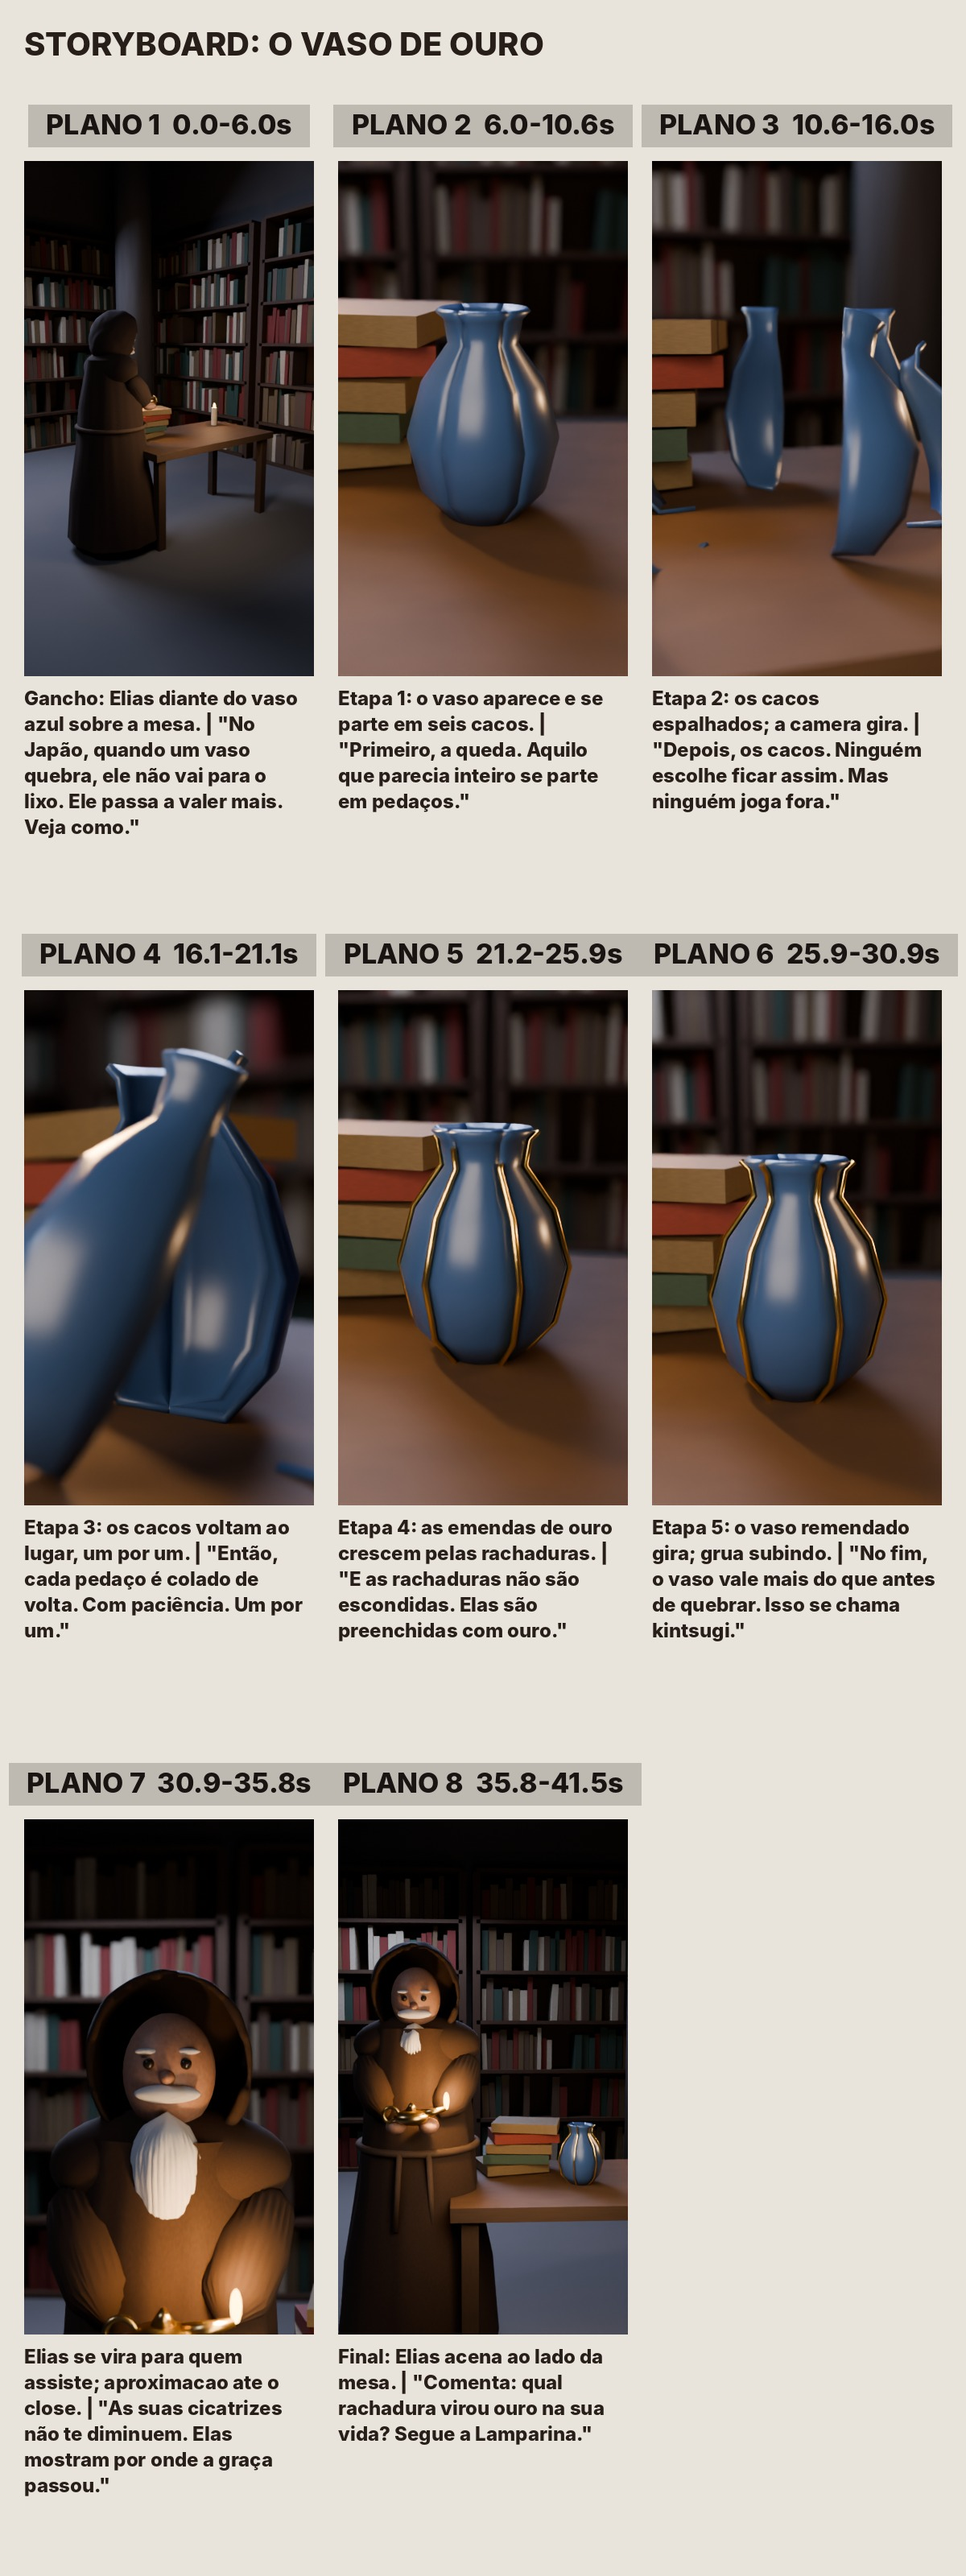
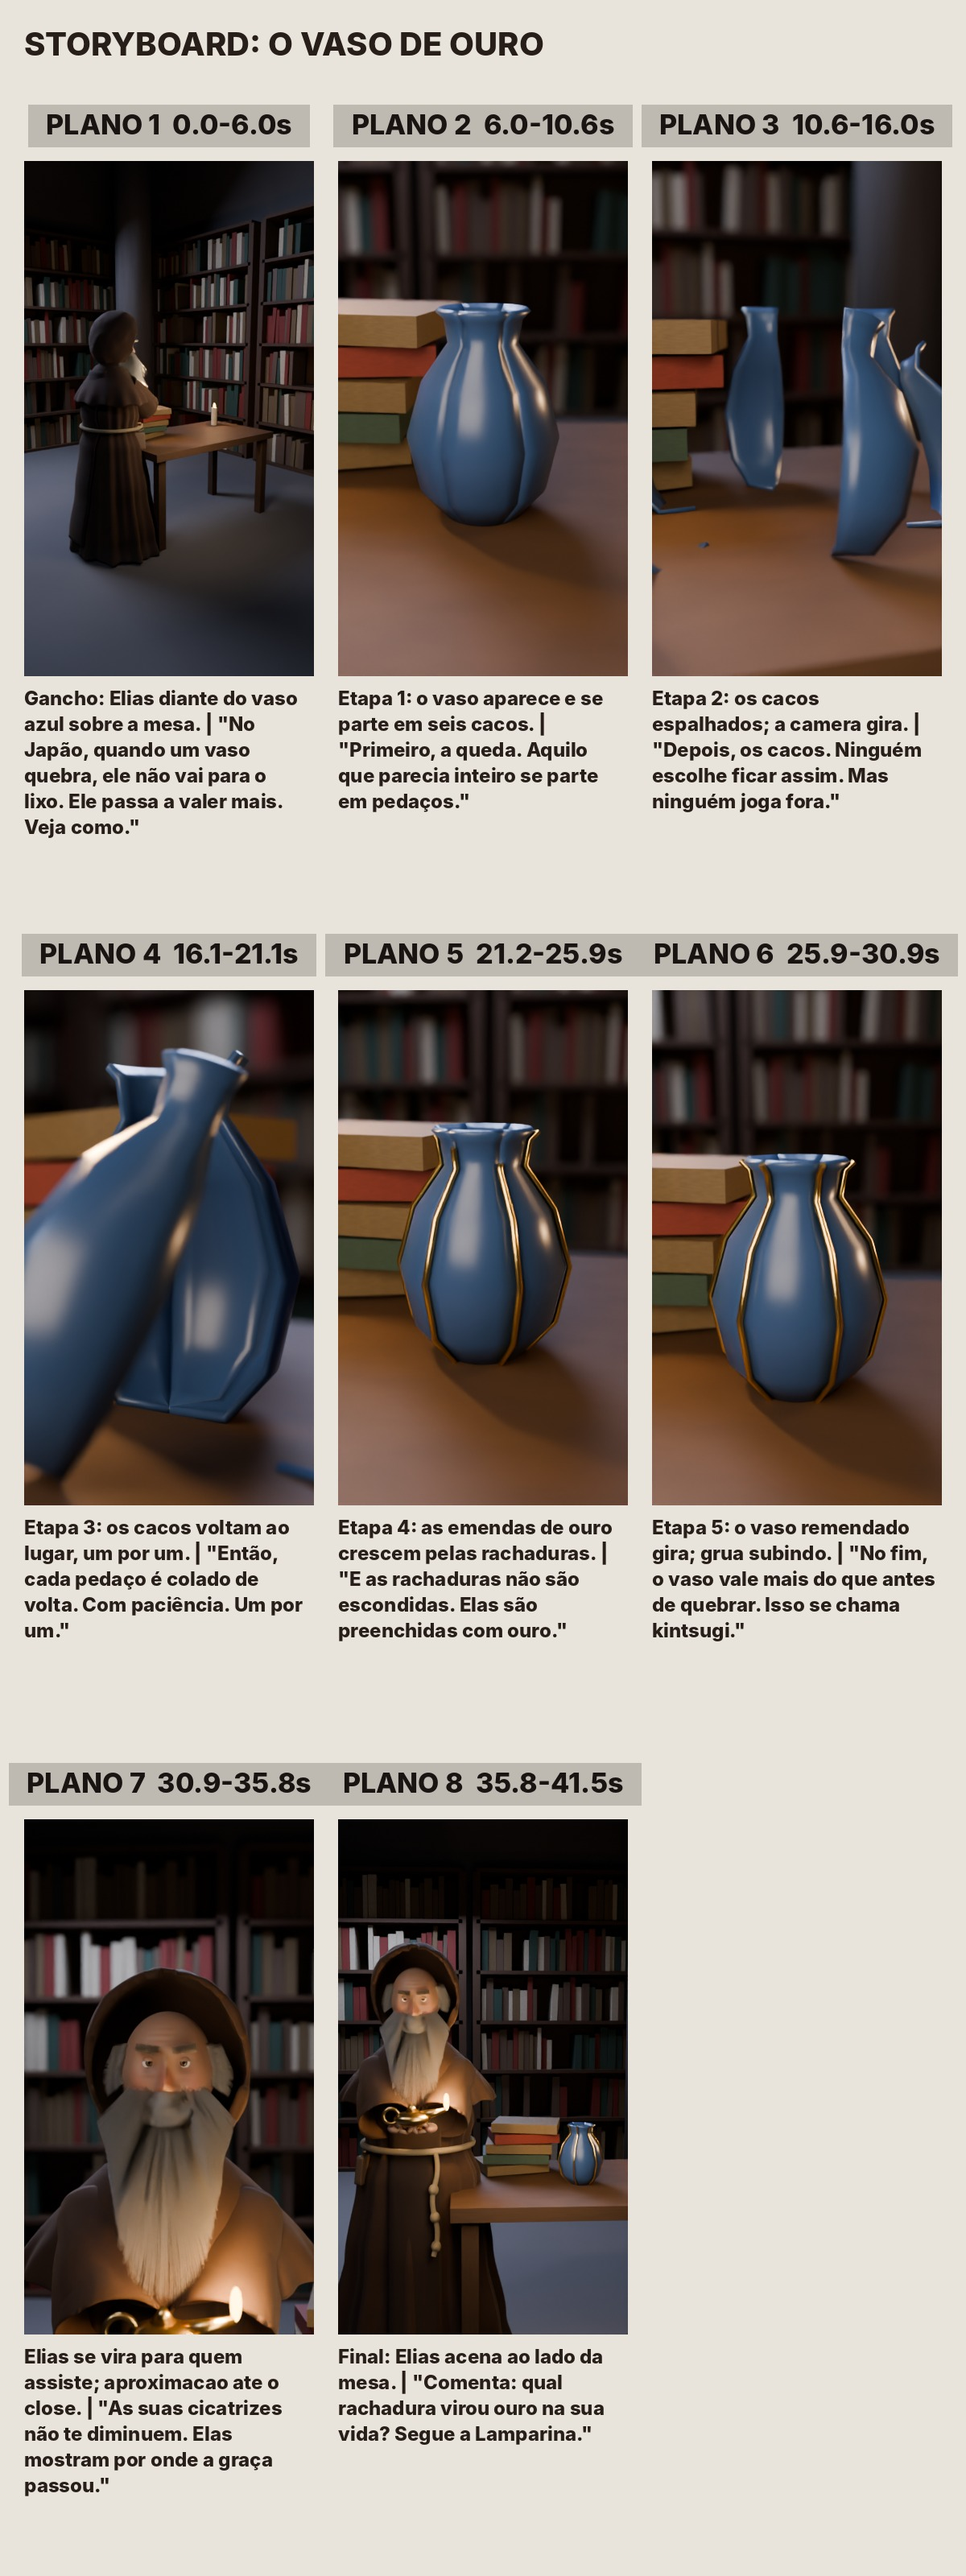
Elias V2: fala sincronizada com a narracao, piscar, sobrancelhas moveis, olhar para a camera, rugas esculpidas, cabelo nas temporas e respiracao
Claude-Session: https://claude.ai/code/session_0146Xd1ZsDWpGpSHV77qDDph

diff --git a/animacao3d/personagem.py b/animacao3d/personagem.py
@@ -103,6 +103,20 @@ def _forma_rosto(p):
         d += 0.07 * _g(p, (0.15 * s, -0.95, -0.27), 0.065)    # asas do nariz
         d += 0.12 * _g(p, (1.0 * s, 0.05, 0.0), (0.05, 0.12, 0.16))  # orelhas
     d -= 0.035 * _g(p, (0, -0.95, -0.48), (0.22, 0.2, 0.05))  # boca
+    # Rugas: tres sulcos na testa, pes de galinha, bolsas sob os olhos e o bigode chines.
+    frente = _suave(-0.55, -0.85, p.y)
+    for zc in (0.5, 0.6, 0.7):
+        d -= 0.012 * frente * math.exp(-((p.z - zc) / 0.028) ** 2) * math.exp(-(p.x / 0.45) ** 2)
+    for s in (1, -1):
+        for k in (-1, 0, 1):
+            d -= 0.008 * _g(p, (0.63 * s, -0.66, 0.14 + 0.06 * k), (0.07, 0.07, 0.013))
+        d += 0.02 * _g(p, (0.36 * s, -0.88, -0.04), (0.1, 0.1, 0.035))
+        d -= 0.012 * _g(p, (0.36 * s, -0.86, -0.1), (0.12, 0.1, 0.02))
+        a_, b_ = Vector((0.17 * s, -0.93, -0.27)), Vector((0.3 * s, -0.86, -0.58))
+        t = max(0.0, min(1.0, (p - a_).dot(b_ - a_) / (b_ - a_).length_squared))
+        dist = (p - (a_ + (b_ - a_) * t)).length
+        d -= 0.025 * math.exp(-(dist / 0.03) ** 2)
+        d += 0.012 * math.exp(-((dist - 0.05) / 0.03) ** 2)
     d += 0.05 * _g(p, (0, -0.85, -0.8), 0.15)                 # queixo
     q = p + n * d
     # Nariz: crista no meio do rosto, mais alta na ponta.
@@ -116,7 +130,27 @@ def _forma_rosto(p):
     return q
 
 
-def _pele_material(nome, com_cor):
+PARTES_ROSTO = {}
+
+
+def _sup(pu):
+    """Ponto da superficie do rosto (unidades da cena) a partir de um ponto da esfera unitaria."""
+    q = _forma_rosto(pu.normalized())
+    return Vector((q.x * ESCALA_CABECA.x, q.y * ESCALA_CABECA.y, q.z * ESCALA_CABECA.z)) + CENTRO_CABECA
+
+
+def _boca_material():
+    m = bpy.data.materials.get("boca")
+    if m is None:
+        m = bpy.data.materials.new("boca")
+        m.use_nodes = True
+        p = m.node_tree.nodes["Principled BSDF"]
+        p.inputs["Base Color"].default_value = (0.05, 0.012, 0.01, 1)
+        p.inputs["Roughness"].default_value = 0.6
+    return m
+
+
+def _pele_material(nome, com_cor, cor=None):
     """Pele: subsurface, poros e rugas finas na testa; cor por vertice (bochechas e nariz mais rosados)."""
     m = bpy.data.materials.get(nome)
     if m:
@@ -125,7 +159,7 @@ def _pele_material(nome, com_cor):
     m.use_nodes = True
     nt = m.node_tree
     p = nt.nodes["Principled BSDF"]
-    p.inputs["Base Color"].default_value = (0.42, 0.25, 0.17, 1)
+    p.inputs["Base Color"].default_value = (*(cor or (0.42, 0.25, 0.17)), 1)
     if com_cor:
         ca = nt.nodes.new("ShaderNodeVertexColor")
         ca.layer_name = "cor_pele"
@@ -262,7 +296,7 @@ def _fios(o, nome, grupo, quantos, comprimento, direcao, normal, filhos=10, aglo
 
 def cabeca_realista(colecao, m):
     """Devolve as pecas da cabeca V2 (todas para serem filhas do vazio da cabeca)."""
-    bpy.ops.mesh.primitive_uv_sphere_add(segments=96, ring_count=48, radius=1, location=(0, 0, 0))
+    bpy.ops.mesh.primitive_uv_sphere_add(segments=192, ring_count=96, radius=1, location=(0, 0, 0))
     rosto = _obj("rosto", None, colecao)
     me = rosto.data
     cores = me.color_attributes.new("cor_pele", "FLOAT_COLOR", "POINT")
@@ -270,6 +304,7 @@ def cabeca_realista(colecao, m):
     bigode_g = rosto.vertex_groups.new(name="bigode")
     sob_g = rosto.vertex_groups.new(name="sobrancelha")
     comp_g = rosto.vertex_groups.new(name="comprimento")
+    cab_g = rosto.vertex_groups.new(name="cabelo")
     for v in me.vertices:
         p = v.co.copy()
         q = _forma_rosto(p)
@@ -286,35 +321,68 @@ def cabeca_realista(colecao, m):
             comp_g.add([v.index], 0.3 + 0.7 * (1 - abs(p.x) / 0.8) ** 1.5, "REPLACE")
         if p.y < -0.7 and -0.46 < p.z < -0.3 and abs(p.x) < 0.42:
             bigode_g.add([v.index], 1.0, "REPLACE")
-        for s in (1, -1):
-            if _g(p, (0.36 * s, -0.86, 0.33), (0.17, 0.3, 0.05)) > 0.5:
-                sob_g.add([v.index], 1.0, "REPLACE")
+        if -0.2 < p.z < 0.45 and abs(p.x) > 0.72 and p.y > -0.35:
+            cab_g.add([v.index], 1.0, "REPLACE")
     rosto.location = CENTRO_CABECA
     me.materials.append(_pele_material("pele_rosto", True))
     me.materials.append(_cabelo_material())
     sub = rosto.modifiers.new("sub", "SUBSURF")
     sub.levels, sub.render_levels = 0, 1
     _fios(rosto, "barba", "barba", 2200, 0.26, (0, -0.15, -1.0), 0.1, 10, 0.6, "comprimento")
-    _fios(rosto, "bigode", "bigode", 500, 0.075, (0, -0.4, -1.0), 0.6, 8, 0.6)
-    _fios(rosto, "sobrancelha", "sobrancelha", 260, 0.022, (0, -0.6, 0.35), 0.4, 6, 0.3)
+    _fios(rosto, "bigode", "bigode", 600, 0.05, (0, -0.3, -1.0), 0.45, 8, 0.25)
+    _fios(rosto, "cabelo", "cabelo", 700, 0.035, (0, 0.4, -1.0), 0.12, 6, 0.3)
     pecas = [rosto]
+    partes = {"sobrancelhas": [], "palpebras": [], "olhos": []}
+    # Sobrancelhas em tiras proprias (invisiveis) para poderem subir e descer.
+    for s in (1, -1):
+        c = _sup(Vector((0.36 * s, -0.86, 0.33)))
+        # Tira no plano xz com a normal para a frente (-y): os fios nascem para fora do rosto.
+        bm = bmesh.new()
+        vs = [bm.verts.new(v) for v in ((-0.025, 0, -0.007), (0.025, 0, -0.007), (0.025, 0, 0.007), (-0.025, 0, 0.007))]
+        bm.faces.new(vs)
+        me_s = bpy.data.meshes.new("sobrancelha")
+        bm.to_mesh(me_s)
+        bm.free()
+        so = bpy.data.objects.new("sobrancelha", me_s)
+        colecao.objects.link(so)
+        me_s.materials.append(_cabelo_material())
+        so.location = (c.x, c.y + 0.002, c.z)
+        so.rotation_euler = (0, math.radians(-8 * s), 0)
+        so.show_instancer_for_render = False
+        so.visible_camera = True
+        _fios(so, "sobrancelha", "", 140, 0.022, (0, -0.6, 0.35), 0.4, 6, 0.3)
+        pecas.append(so)
+        partes["sobrancelhas"].append(so)
+    # Boca: abertura escura e labio inferior, que se movem com a fala.
+    cb = _sup(Vector((0, -0.95, -0.5)))
+    bpy.ops.mesh.primitive_uv_sphere_add(radius=1, location=(cb.x, cb.y + 0.004, cb.z))
+    boca = _obj("boca", _boca_material(), colecao)
+    boca.scale = (0.022, 0.008, 0.004)
+    bpy.ops.mesh.primitive_uv_sphere_add(radius=1, location=(cb.x, cb.y + 0.001, cb.z - 0.008))
+    labio = _obj("labio", _pele_material("labio", False, (0.42, 0.17, 0.14)), colecao)
+    labio.scale = (0.024, 0.01, 0.007)
+    pecas += [boca, labio]
+    partes["boca"], partes["labio"] = boca, labio
     # Volume interno da barba (evita ver atraves dos fios).
-    bpy.ops.mesh.primitive_cone_add(vertices=40, radius1=0.025, radius2=0.085, depth=0.3,
-                                    location=(0, -0.12, 1.43), rotation=(0.14, 0, 0))
+    bpy.ops.mesh.primitive_cone_add(vertices=40, radius1=0.025, radius2=0.07, depth=0.28,
+                                    location=(0, -0.11, 1.39), rotation=(0.14, 0, 0))
     miolo = _obj("barba_miolo", m["barba"], colecao)
     miolo.scale = (1.0, 0.7, 1.0)
     pecas.append(miolo)
     # Olhos e palpebras.
     olho_m = _olho_material()
-    pele_l = _pele_material("pele_lisa", False)
+    pele_l = _pele_material("palpebra", False)
+    pele_l.node_tree.nodes["Principled BSDF"].inputs["Subsurface Weight"].default_value = 0.0
     for s in (1, -1):
         alvo = _forma_rosto(Vector((0.36 * s, -0.86, 0.14)).normalized())
         c = Vector((alvo.x * ESCALA_CABECA.x, alvo.y * ESCALA_CABECA.y, alvo.z * ESCALA_CABECA.z)) + CENTRO_CABECA
         c.y += 0.009
         bpy.ops.mesh.primitive_uv_sphere_add(segments=32, ring_count=16, radius=0.016, location=c)
-        pecas.append(_obj("olho", olho_m, colecao))
+        olho = _obj("olho", olho_m, colecao)
+        pecas.append(olho)
+        partes["olhos"].append(olho)
         for nome, corte, inclina in (("palpebra_sup", 0.78, -0.25), ("palpebra_inf", -0.78, 0.2)):
-            bpy.ops.mesh.primitive_uv_sphere_add(segments=32, ring_count=16, radius=0.0172, location=c)
+            bpy.ops.mesh.primitive_uv_sphere_add(segments=32, ring_count=16, radius=0.0176, location=c)
             pal = _obj(nome, pele_l, colecao)
             bm = bmesh.new()
             bm.from_mesh(pal.data)
@@ -326,6 +394,10 @@ def cabeca_realista(colecao, m):
             bm.to_mesh(pal.data)
             bm.free()
             pecas.append(pal)
+            if corte > 0:
+                partes["palpebras"].append(pal)
+    PARTES_ROSTO.clear()
+    PARTES_ROSTO.update(partes)
     return pecas
 
 
@@ -732,7 +804,11 @@ def criar(colecao, mats, local=(0, 0, 0), realista=True):
     _pai(luz, bracos)
 
     raiz.location = local
-    return {"raiz": raiz, "cabeca": cab, "bracos": bracos, "luz": luz, "chama": chama}
+    partes = {"raiz": raiz, "cabeca": cab, "bracos": bracos, "luz": luz, "chama": chama}
+    if realista:
+        partes.update(PARTES_ROSTO)
+        partes["murca"] = bpy.data.objects.get("murca")
+    return partes
 
 
 def tremular(partes, inicio, fim, semente=7):
@@ -745,3 +821,102 @@ def tremular(partes, inicio, fim, semente=7):
         luz.data.keyframe_insert("energy", frame=f)
         chama.scale = (0.011, 0.011, 0.03 * (0.85 + 0.3 * k))
         chama.keyframe_insert("scale", frame=f)
+
+
+# ---------------------------------------------------------------------------
+# Vida (V2): boca sincronizada com a narracao, piscar, sobrancelhas, olhar e respiracao.
+# ---------------------------------------------------------------------------
+def _envelope(wav, fps):
+    """Volume da narracao por quadro, de 0 a 1 (RMS suavizado)."""
+    import subprocess
+    import array
+    bruto = subprocess.run(["ffmpeg", "-v", "error", "-i", str(wav), "-ac", "1", "-ar", "8000", "-f", "s16le", "-"],
+                           capture_output=True, check=True).stdout
+    a = array.array("h", bruto)
+    n = 8000 // fps
+    rms = [(sum(x * x for x in a[i:i + n]) / n) ** 0.5 for i in range(0, len(a) - n, n)]
+    topo = sorted(rms)[int(len(rms) * 0.92)] or 1
+    sua, v = [], 0.0
+    for x in rms:
+        v = 0.5 * v + 0.5 * min(x / topo, 1.0)
+        sua.append(v)
+    return sua
+
+
+def _camera_no_quadro(cena, f):
+    marcas = sorted((m for m in cena.timeline_markers if m.camera), key=lambda m: m.frame)
+    cam = cena.camera
+    for m in marcas:
+        if m.frame <= f:
+            cam = m.camera
+    return cam
+
+
+def vida(partes, cena, wav, tempos, fim, fps=24, semente=3):
+    if "boca" not in partes:
+        return
+    rnd = random.Random(semente)
+    # 1. Fala: a boca abre com o volume da voz (quadros pares, que sao os renderizados).
+    env = _envelope(wav, fps)
+    boca, labio = partes["boca"], partes["labio"]
+    b0, l0 = tuple(boca.location), tuple(labio.location)
+    for f in range(0, min(fim, len(env)) + 1, 2):
+        a = env[f] if env[f] > 0.12 else 0.0
+        boca.scale = (0.022, 0.008, 0.004 + 0.011 * a)
+        boca.location = (b0[0], b0[1], b0[2] - 0.004 * a)
+        labio.location = (l0[0], l0[1], l0[2] - 0.01 * a)
+        boca.keyframe_insert("scale", frame=f)
+        boca.keyframe_insert("location", frame=f)
+        labio.keyframe_insert("location", frame=f)
+    # 1. Piscar a cada 2,5 a 5 s.
+    f = 30
+    while f < fim - 8:
+        f -= f % 2
+        for pal in partes["palpebras"]:
+            for df, ang in ((0, 0), (2, 72), (4, 40), (6, 0)):
+                pal.rotation_euler = (math.radians(ang), 0, 0)
+                pal.keyframe_insert("rotation_euler", frame=f + df)
+        f += int(rnd.uniform(2.5, 5) * fps)
+    # 1. Sobrancelhas sobem no comeco de uma frase sim, outra nao.
+    for so in partes["sobrancelhas"]:
+        z0 = so.location.z
+        so.keyframe_insert("location", frame=0)
+        for i, t in enumerate(tempos):
+            if i % 2:
+                continue
+            q = int(t[0] * fps)
+            for df, dz in ((0, 0), (5, 0.004), (16, 0.004), (24, 0)):
+                so.location.z = z0 + dz
+                so.keyframe_insert("location", frame=q + df)
+    # 2. Olhar: os olhos procuram a camera ativa, com pequenos desvios (sacadas).
+    alvo = bpy.data.objects.new("alvo_olhar", None)
+    cena.collection.objects.link(alvo)
+    for olho in partes["olhos"]:
+        c = olho.constraints.new("DAMPED_TRACK")
+        c.target = alvo
+        c.track_axis = "TRACK_NEGATIVE_Y"
+        c.influence = 0.6
+    desvio = Vector()
+    for f in range(0, fim + 1, 6):
+        if f % 36 == 0:
+            desvio = Vector((rnd.uniform(-0.06, 0.06), 0, rnd.uniform(-0.04, 0.04)))
+        cam = _camera_no_quadro(cena, f)
+        if cam is None:
+            continue
+        cena.frame_set(f)
+        alvo.location = cam.matrix_world.translation + desvio
+        alvo.keyframe_insert("location", frame=f)
+    cena.frame_set(0)
+    # 6. Respiracao: ombros e cabeca sobem e descem (ciclo de 4 s), murca enche um pouco.
+    cab, bracos, murca = partes["cabeca"], partes["bracos"], partes.get("murca")
+    c0, br0 = tuple(cab.location), tuple(bracos.location)
+    for f in range(0, fim + 1, 12):
+        k = math.sin(2 * math.pi * f / (4 * fps))
+        lado = math.sin(2 * math.pi * f / (7 * fps))
+        cab.location = (c0[0] + 0.003 * lado, c0[1], c0[2] + 0.004 * k)
+        bracos.location = (br0[0], br0[1], br0[2] + 0.005 * k)
+        cab.keyframe_insert("location", frame=f)
+        bracos.keyframe_insert("location", frame=f)
+        if murca:
+            murca.scale = (1 + 0.012 * k, 1 + 0.015 * k, 1)
+            murca.keyframe_insert("scale", frame=f)

diff --git a/animacao3d/gerar.py b/animacao3d/gerar.py
@@ -69,6 +69,7 @@ def construir(tempos, total):
         getattr(processo, HIST["extra"])(col, m, faixas)
     cena.frame_start, cena.frame_end = 0, faixas[-1][1]
     personagem.tremular(p, 0, cena.frame_end)
+    personagem.vida(p, cena, SAIDA / "narracao.wav", tempos, cena.frame_end, historia.FPS)
     bpy.ops.wm.save_as_mainfile(filepath=str(SAIDA / "cena.blend"))
     return cena, p, faixas
 
